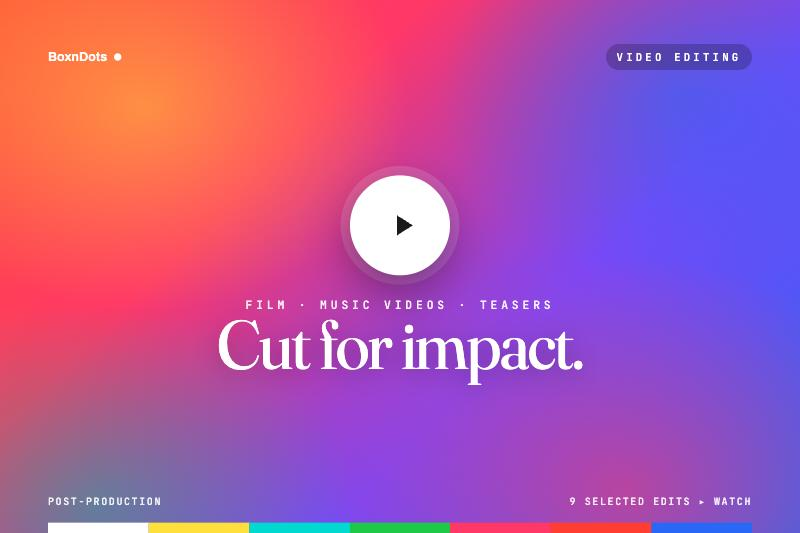
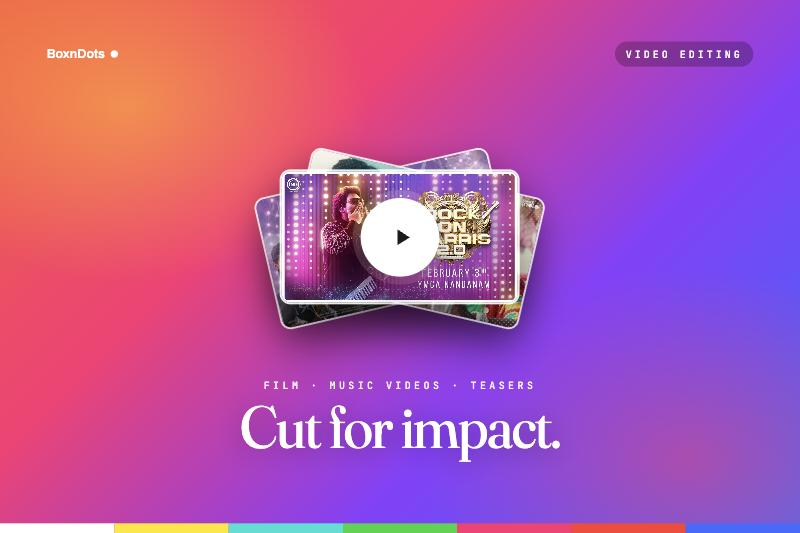
Richer case study covers; frame video work by domain, not credits
- Video case study: drop Tamil cinema and specific film credits (role was
  assistant editor); reframe around the domains we work across and keep it
  as our expert team.
- Rework all three covers for more impact: VAULTA a radiant gold sunburst
  with the glowing monogram, Skedo a 3D product mockup with a floating
  seat-meter badge, video a fanned stack of real thumbnails with a play
  button on the gradient.

diff --git a/work/video.html b/work/video.html
@@ -178,9 +178,9 @@
   <!-- HERO -->
   <section class="hero">
     <div class="cw">
-      <div class="hero__kicks rv"><span class="mono kick">Video Editing</span><span class="hero__dot"></span><span class="mono kick--mut">Post-production · Kollywood</span></div>
+      <div class="hero__kicks rv"><span class="mono kick">Video Editing</span><span class="hero__dot"></span><span class="mono kick--mut">Post-production · All formats</span></div>
       <h1 class="hero__t rv">I edit for emotion.<br/>I <em>cut</em> for impact.</h1>
-      <p class="hero__lead rv">BoxnDots cuts with an <strong>expert in-house editing team</strong>, 6+ years deep in post, with credits across Tamil cinema including <strong>Aranmanai 4</strong>, <strong>Mookuthi Amman 2</strong> and <strong>Nanban Oruvan Vantha Piragu</strong>. From first rough cut to final export, we turn raw footage into stories that connect.</p>
+      <p class="hero__lead rv">BoxnDots cuts with an <strong>expert in-house editing team</strong>, 6+ years deep in post across <strong>every kind of content</strong>, from feature and short films to documentaries, music videos, commercials and brand campaigns. From first rough cut to final export, we turn raw footage into stories that connect.</p>
       <div class="hero__row rv">
         <a class="btnx btnx--accent" href="#reel">Watch the reel</a>
         <a class="btnx btnx--ghost" href="#" data-book>Book a call</a>
@@ -193,7 +193,7 @@
     <div class="cw stats__g">
       <div class="rv"><div class="stat__n">6<span>+</span></div><div class="stat__l">Years in post-production</div></div>
       <div class="rv"><div class="stat__n">40<span>+</span></div><div class="stat__l">Projects cut and delivered</div></div>
-      <div class="rv"><div class="stat__n">3</div><div class="stat__l">Feature film credits in Kollywood</div></div>
+      <div class="rv"><div class="stat__n">6</div><div class="stat__l">Domains, from film to brand</div></div>
       <div class="rv"><div class="stat__n">9</div><div class="stat__l">Selected edits you can watch below</div></div>
     </div>
   </section>
@@ -233,22 +233,29 @@
   <section class="sec">
     <div class="cw">
       <div class="sec__head rv">
-        <span class="mono kick">The journey</span>
-        <h2 class="sec__t">On set and in the suite.</h2>
+        <span class="mono kick">Where we work</span>
+        <h2 class="sec__t">Every kind of content, start to finish.</h2>
+        <p class="sec__p">We have cut across just about every format. Whatever the footage and whoever it is for, we find the story in it and ship a clean, finished edit.</p>
       </div>
-      <div class="cred rv">
-        <div class="cred__row"><span class="cred__yr">2025–2026</span><span class="cred__ttl">Mookuthi Amman 2</span><span class="cred__role">Assistant Editor</span></div>
-        <div class="cred__row"><span class="cred__yr">2024</span><span class="cred__ttl">A Song for Eresha</span><span class="cred__role">Editor</span></div>
-        <div class="cred__row"><span class="cred__yr">2023–2024</span><span class="cred__ttl">Nanban Oruvan Vantha Piragu</span><span class="cred__role">Assistant Editor</span></div>
-        <div class="cred__row"><span class="cred__yr">2023–2024</span><span class="cred__ttl">Aranmanai 4</span><span class="cred__role">Assistant Editor</span></div>
-        <div class="cred__row"><span class="cred__yr">2020–2023</span><span class="cred__ttl">Sixmask Films</span><span class="cred__role">Editor</span></div>
+      <div class="tools rv">
+        <span class="tool">Narrative films</span>
+        <span class="tool">Short films</span>
+        <span class="tool">Documentaries</span>
+        <span class="tool">Music videos</span>
+        <span class="tool">Commercials</span>
+        <span class="tool">Brand campaigns</span>
+        <span class="tool">Social & reels</span>
+        <span class="tool">Live sessions</span>
       </div>
-      <div class="tools">
-        <span class="tool">Final Cut Pro</span>
-        <span class="tool">DaVinci Resolve</span>
-        <span class="tool">After Effects</span>
-        <span class="tool">Photoshop</span>
-        <span class="tool">Illustrator</span>
+      <div class="rv" style="margin-top:34px;">
+        <div class="mono kick--mut" style="margin-bottom:16px;">Our toolkit</div>
+        <div class="tools" style="margin-top:0;">
+          <span class="tool">Final Cut Pro</span>
+          <span class="tool">DaVinci Resolve</span>
+          <span class="tool">After Effects</span>
+          <span class="tool">Photoshop</span>
+          <span class="tool">Illustrator</span>
+        </div>
       </div>
     </div>
   </section>
